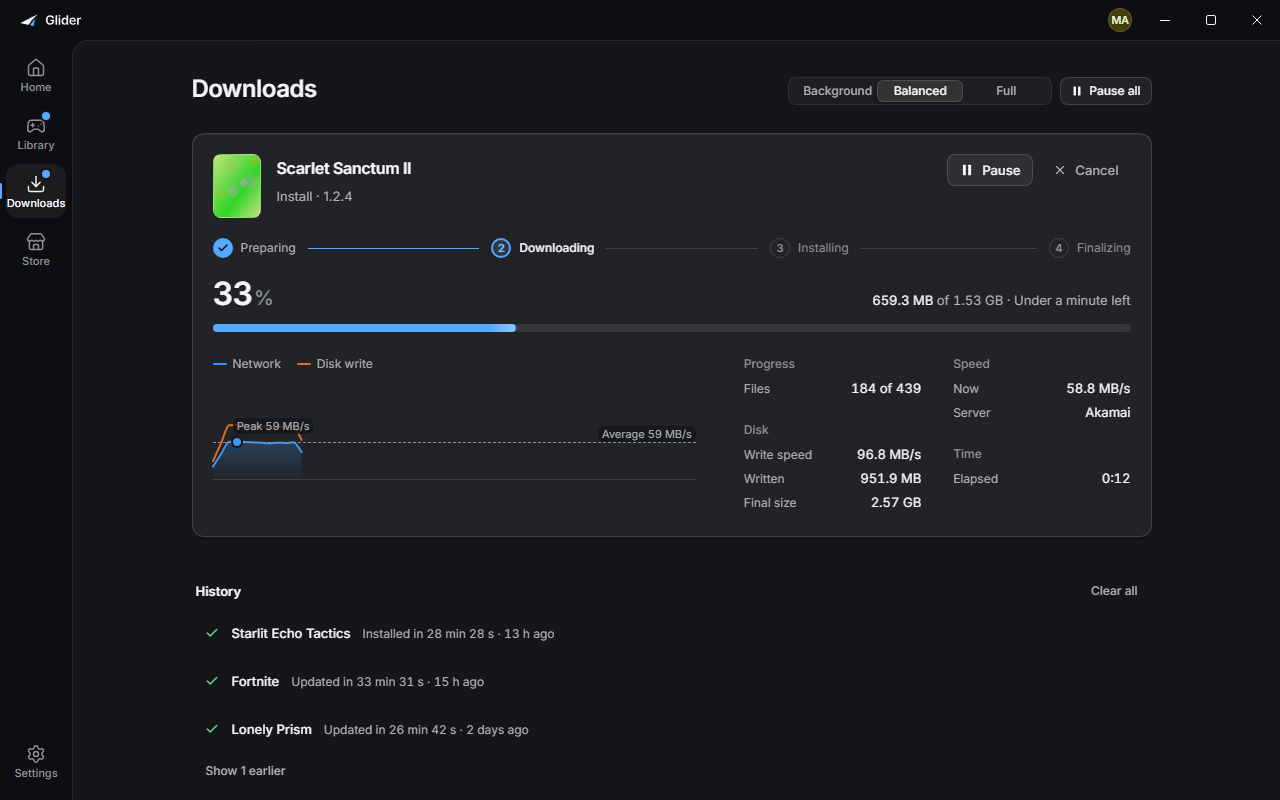
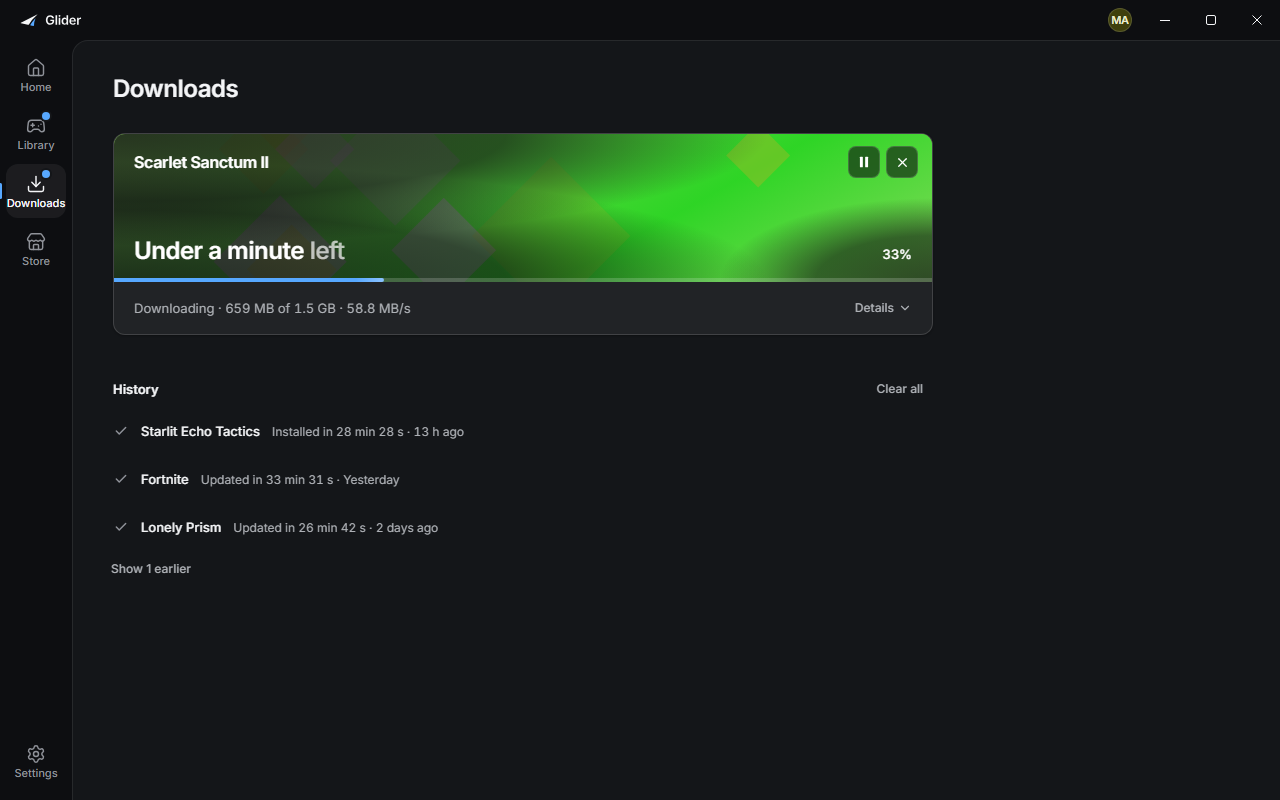
docs(readme): screenshots of the v0.2 UI

diff --git a/README.md b/README.md
@@ -3,20 +3,18 @@
 A fast, quiet Windows launcher for your whole Epic Games library. Sign in, bring in the games you already have (nothing
 re-downloads), then install, update, repair and play without opening the Epic Games Launcher.
 
-<!-- TODO(screenshots): shoot these from the real app (1280x800, dark theme) and save them in docs/screenshots/readme/:
-       home.png, library.png, game.png, downloads.png, settings.png, store.png
-     then replace the placeholder block below with the <p><img ...></p> grid. Until then the images are broken links. -->
-
 ## Screenshots
 
 <p>
-  <img src="docs/screenshots/readme/home.png" width="49%" alt="Home: continue playing, updates, free this week">
-  <img src="docs/screenshots/readme/library.png" width="49%" alt="Library, grid view">
-  <img src="docs/screenshots/readme/game.png" width="49%" alt="A game's page, ready to play">
-  <img src="docs/screenshots/readme/downloads.png" width="49%" alt="Downloads: an install with live speed and chart">
-  <img src="docs/screenshots/readme/settings.png" width="49%" alt="Settings">
-  <img src="docs/screenshots/readme/store.png" width="49%" alt="The Epic Games Store tab">
+  <img src="docs/screenshots/dark-solid-1280x800/home.png" width="49%" alt="Home: continue playing, updates, free this week">
+  <img src="docs/screenshots/dark-solid-1280x800/library-grid.png" width="49%" alt="Library, grid view">
+  <img src="docs/screenshots/dark-solid-1280x800/game-page.png" width="49%" alt="A game's page, ready to play">
+  <img src="docs/screenshots/dark-solid-1280x800/downloads.png" width="49%" alt="Downloads: an install in progress, time left as the headline">
+  <img src="docs/screenshots/dark-solid-1280x800/settings.png" width="49%" alt="Settings, Downloads section">
+  <img src="docs/screenshots/light-solid-1280x800/onboarding-scan.png" width="49%" alt="First run: games found on this PC, light theme">
 </p>
+
+Rendered from the app with its mock backend (`pnpm screenshots:readme` in `frontend/`).
 
 > Glider is an unofficial, independent project. It is not affiliated with or endorsed by Epic Games.
 > Fortnite and Epic Games are trademarks of Epic Games, Inc.
